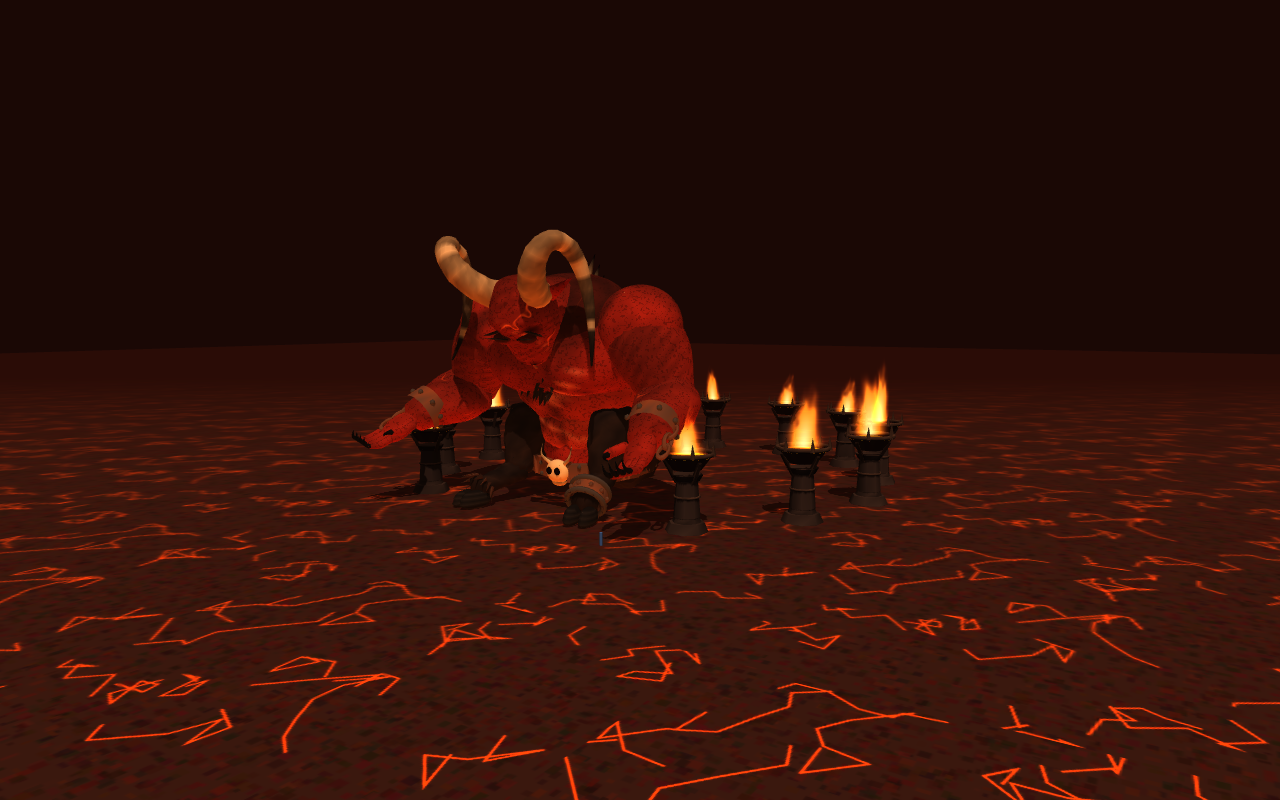
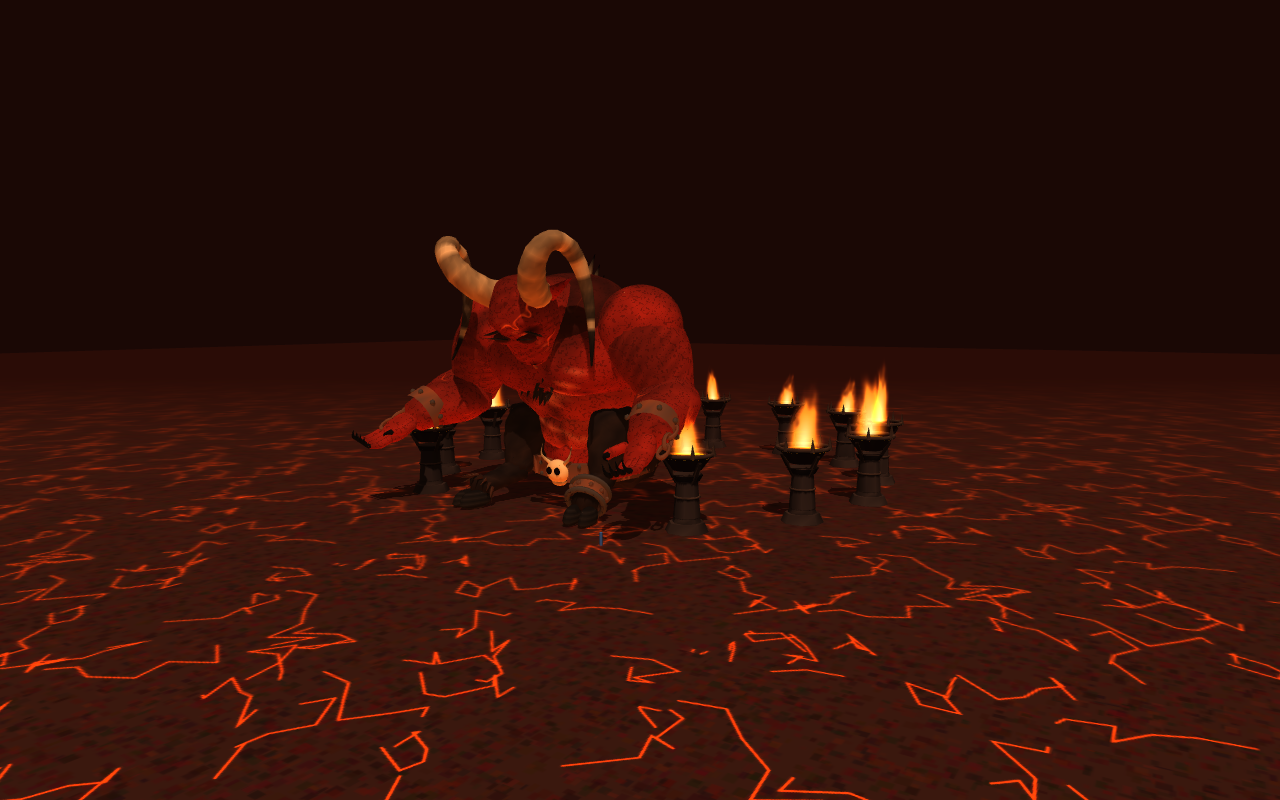
Ад: руки и модели не дрожат (кости относительно модели, не мира); постамент меча и чаши стоят на полу котловины — на постамент можно зайти
Claude-Session: https://claude.ai/code/session_01Mpy7conc3GY2y3zL4LDFSX

diff --git a/src/core/LocalSkin.js b/src/core/LocalSkin.js
@@ -1,0 +1,46 @@
+/**
+ * LocalSkin.js — кости скин-моделей считаются относительно самой модели, а не мира.
+ *
+ * Жалоба автора: «в аду дрожит рука» (на Земле — нет). Ад (и планеты) лежат далеко от начала мира (x ≈ 480 000 м).
+ * three r128 кладёт в шейдер матрицы костей В МИРЕ (bone.matrixWorld) и вычитает мир модели уже на видеокарте
+ * (bindMatrixInverse) — в 32-битных числах: у 480 000 шаг числа ≈ 3 см, и вершины рук/тела прыгали на эти сантиметры
+ * от кадра к кадру. Здесь вычитание делается на процессоре в 64-битных числах: в шейдер идут маленькие числа
+ * «кость относительно модели», а модель ставит на место её обычная modelMatrix (её three считает точно).
+ * Условие: все скин-сетки этого скелета — дети `frame` без своего сдвига (как у FarShape, тела героя, горгулий).
+ */
+import * as THREE from 'three';
+
+const _inv = new THREE.Matrix4(), _off = new THREE.Matrix4(), _id = new THREE.Matrix4();
+
+/** Скелет кладёт в шейдер кости относительно `frame` (его мировой матрицы). */
+export function localSkin(skeleton, frame) {
+    if (!skeleton || !frame) return skeleton;
+    skeleton.update = function localUpdate() {
+        const bones = this.bones, inv = this.boneInverses, out = this.boneMatrices;
+        _inv.copy(frame.matrixWorld).invert();
+        for (let i = 0; i < bones.length; i++) {
+            _off.multiplyMatrices(_inv, bones[i] ? bones[i].matrixWorld : _id).multiply(inv[i]);
+            _off.toArray(out, i * 16);
+        }
+        if (this.boneTexture) this.boneTexture.needsUpdate = true;
+    };
+    return skeleton;
+}
+
+const _fi = new THREE.Matrix4();
+/**
+ * Сетка такого скелета: без «привязки к миру» (bindMatrix — единица, не пересчитывается от мира модели). `frame` — тот же, что у
+ * скелета: расчёт вершины на процессоре (`boneTransform`: попадания, замеры, тесты) отдаёт её, как раньше, в координатах сетки.
+ */
+export function localBind(mesh, frame = null) {
+    mesh.bindMode = 'detached';
+    mesh.bindMatrix.identity();
+    mesh.bindMatrixInverse.identity();
+    if (frame) {
+        mesh.boneTransform = function localBoneTransform(index, target) {
+            THREE.SkinnedMesh.prototype.boneTransform.call(this, index, target); // (кости в мире, привязка — единица: точка в мире)
+            return target.applyMatrix4(_fi.copy(frame.matrixWorld).invert());
+        };
+    }
+    return mesh;
+}

diff --git a/tests/unit/diabolos.test.js b/tests/unit/diabolos.test.js
@@ -763,3 +763,36 @@ test('смерть от меча — эффектно: крик удивлени
     assert.equal(d.glowK, 0, 'зарево и столб огня погасли');
     assert.ok(!d.deathFx.on, 'эффект убран (ничего не копится)');
 });
+
+test('постамент меча стоит НА полу котловины (настоящая земля ада): от пола по ступеням поднимаешься шагом, без прыжка', async () => {
+    const { TerrainData } = await import('../../src/world/Terrain.js');
+    const { CollisionWorld } = await import('../../src/world/Collision.js');
+    const { swordSpot, SWORD_SPOT } = await import('../../src/game/DiabolosRules.js');
+    const { Diabolos } = await import('../../src/game/Diabolos.js');
+    const data = new TerrainData(); data.generate({ seed: 4242, hell: true, worldGen: 22 });
+    const col = new CollisionWorld(); col.setTerrain(data);
+    const plan = data.hellPlan;
+    const { g } = fakeGame(new THREE.Vector3(plan.devilSeat.x, 16, plan.devilSeat.z - 300));
+    g.collision = col; g.terrain = { data };
+    g.weapons = { weapons: [], spawnLying: (t, x, y, z, yaw, id) => { const w = { id, type: t, position: new THREE.Vector3(x, y, z) }; g.weapons.weapons.push(w); return w; } };
+    const d = new Diabolos(g); g.diabolos = d;
+    d.place(plan);
+    d.update(0.016);
+    const P = swordSpot(d.site, d._swordRoad());
+    const cx = d.site.cx ?? d.site.x, cz = d.site.cz ?? d.site.z, L = Math.hypot(cx - P.x, cz - P.z), ux = (cx - P.x) / L, uz = (cz - P.z) / L; // (к середине котловины — там ровный пол)
+    const floor = col.groundAt(P.x + ux * 14, P.z + uz * 14, 30); // (пол рядом, вне постамента)
+    const ped = [...col.boxes.values()].filter((b) => b.kind === 'pedestal').sort((a, b) => a.minY - b.minY);
+    assert.equal(ped.length, SWORD_SPOT.TIERS.length);
+    assert.ok(Math.abs(ped[0].minY - floor) < 0.05, `низ постамента ${ped[0].minY} = пол ${floor} (раньше висел на 1,5 м выше — не запрыгнуть)`);
+    // идём от края к середине: каждая ступень — не выше шага героя (1,05 м)
+    let feet = floor;
+    for (let k = 0; k <= 60; k++) {
+        const x = P.x + ux * (14 - k * 0.2333), z = P.z + uz * (14 - k * 0.2333);
+        const gnd = col.standAt(x, z, feet + 1.1);
+        assert.ok(gnd - feet <= 1.05, `ступень ${(gnd - feet).toFixed(2)} м выше шага`);
+        feet = Math.max(gnd, feet - 0.5);
+    }
+    assert.ok(Math.abs(feet - (floor + P.h)) < 0.05, `наверху: ${feet} vs ${floor + P.h}`);
+    const w = g.weapons.weapons.find((x) => x.id === 'divine-hell');
+    assert.ok(w && Math.abs(w.position.y - (floor + P.h + 0.3)) < 0.05, 'меч лежит на верхней ступени');
+});

diff --git a/src/game/Diabolos.js b/src/game/Diabolos.js
@@ -139,7 +139,7 @@ export class Diabolos {
         // (пол котловины ещё не сделан воркерами — издали: слой пола из плана ада, верх блока = слой + 1; придёт земля — уточнится)
         const gy = this._ground(s.x, s.z, NaN);
         this._yGuess = !Number.isFinite(gy);
-        const y = Number.isFinite(gy) ? gy : s.y != null ? s.y + 1 : 0;
+        const y = Number.isFinite(gy) ? gy : s.y != null ? s.y - 0.5 : 0;
         const anchor = { x: s.anchor.x, y: s.anchor.y ?? this._ground(s.anchor.x, s.anchor.z, y) + 2.5, z: s.anchor.z };
         // лицом от якоря (цепь тянется за ним назад)
         const yaw = Math.atan2(-(s.x - anchor.x), -(s.z - anchor.z)); // (вперёд = (−sin, −cos): ОТ столба, к дороге; было «+π» — сидел лицом к столбу, и под Империусом шёл прямо в него)
@@ -201,7 +201,7 @@ export class Diabolos {
     _fires(y) {
         const s = this.site, sp = this.game.terrain?.data?.hellPlan?.spawn;
         const road = sp ? Math.atan2(sp.z - s.cz, sp.x - s.cx) : Math.atan2(s.z - s.anchor.z, s.x - s.anchor.x);
-        (this.fires || (this.fires = new DevilFires(this.game))).build(s.cx ?? s.x, s.cz ?? s.z, s.y != null ? s.y + 1 : y, road);
+        (this.fires || (this.fires = new DevilFires(this.game))).build(s.cx ?? s.x, s.cz ?? s.z, s.y != null ? s.y - 0.5 : y, road);
         devilFireLight(1);
     }
 
@@ -1620,7 +1620,7 @@ export class Diabolos {
         // (пол котловины ещё не сделан воркерами — издали: слой пола из плана ада, верх блока = слой + 1; придёт земля — уточнится)
         const gy = this._ground(s.x, s.z, NaN);
         this._yGuess = !Number.isFinite(gy);
-        const y = Number.isFinite(gy) ? gy : s.y != null ? s.y + 1 : 0;
+        const y = Number.isFinite(gy) ? gy : s.y != null ? s.y - 0.5 : 0;
         const anchor = { x: s.anchor.x, y: s.anchor.y ?? y + 2.5, z: s.anchor.z };
         this.anchor = anchorModel(); this.anchor.position.set(anchor.x, anchor.y - 3, anchor.z); g.scene?.add(this.anchor);
         // цепь: лежит от кольца в сторону места, где он сидел
@@ -1687,7 +1687,7 @@ export class Diabolos {
     _creativeSword() {
         const g = this.game, s = this.site;
         const P = swordSpot(s, this._swordRoad());
-        const floor = s.y != null ? s.y + 1 : this._ground(P.x, P.z, 0);
+        const floor = s.y != null ? s.y - 0.5 : this._ground(P.x, P.z, 0);
         this._pedestal(P, floor);
         if (this._swordGiven || !this.auth) return;
         const creative = g.config?.mode === 'creative' || g.config?.mode === 'test';

diff --git a/tests/unit/local-skin.test.js b/tests/unit/local-skin.test.js
@@ -1,0 +1,30 @@
+import test from 'node:test';
+import assert from 'node:assert/strict';
+import * as THREE from 'three';
+import { FarShape } from '../../src/core/FarShape.js';
+
+// Жалоба автора: «в аду дрожит рука». Ад — x ≈ 480 000 м: у 32-битных чисел видеокарты там шаг ≈ 3 см, а кости шли в шейдер
+// в мировых координатах и вычитались уже на карте — вершины прыгали. Теперь в шейдер идёт «кость относительно модели» (LocalSkin).
+test('кости одной формы (FarShape) — относительно модели: в аду (x 480 000) числа в шейдере маленькие, вершина там же, где у частей', () => {
+    const root = new THREE.Group();
+    const a = new THREE.Mesh(new THREE.BoxGeometry(0.2, 0.2, 0.2), new THREE.MeshLambertMaterial({ color: 0xff0000 }));
+    const b = new THREE.Mesh(new THREE.BoxGeometry(0.1, 0.4, 0.1), new THREE.MeshLambertMaterial({ color: 0xff0000 }));
+    a.position.set(0.3, 1.2, 0.1); b.position.set(-0.2, 0.7, 0.05); b.rotation.z = 0.4;
+    root.add(a, b);
+    root.position.set(480013.37, 21.5, -2017.25); root.rotation.y = 0.7;
+    root.userData.farRadius = 2;
+    const fs = new FarShape(root); fs.set(true);
+    root.updateMatrixWorld(true);
+    const mesh = fs.meshes[0];
+    assert.ok(mesh, 'форма собрана');
+    mesh.skeleton.update();
+    const M = mesh.skeleton.boneMatrices;
+    for (let i = 0; i < M.length; i += 16) assert.ok(Math.abs(M[i + 12]) < 5 && Math.abs(M[i + 14]) < 5, `кость ${i / 16}: сдвиг ${M[i + 12].toFixed(1)}, ${M[i + 14].toFixed(1)} — относительно модели`);
+    // вершина как в шейдере (32-битные числа): modelMatrix · (кость · позиция) — там же, где у самой части в мире
+    const f = (x) => Math.fround(x);
+    const bone = new THREE.Matrix4().fromArray(Array.from(M.slice(0, 16), f));
+    const p = new THREE.Vector3(0.1, 0.1, 0.1).applyMatrix4(bone).applyMatrix4(mesh.matrixWorld);
+    const want = new THREE.Vector3(0.1, 0.1, 0.1).applyMatrix4(mesh.skeleton.bones[0].matrixWorld);
+    assert.ok(p.distanceTo(want) < 1e-3, `вершина ушла на ${p.distanceTo(want)} м`);
+    assert.equal(mesh.bindMode, 'detached');
+});

diff --git a/src/core/FarBatch.js b/src/core/FarBatch.js
@@ -133,6 +133,11 @@ class Batch {
         sk.update = function () { batch.pose(this); }; // (the parts' own world matrices: copied, not computed)
         const mesh = new THREE.SkinnedMesh(geo, this.mat);
         mesh.bind(sk, _ident);
+        // (пакет стоит в своей точке, кости — относительно неё: вдали от начала мира (ад, x ≈ 480 000) 32-битные числа шейдера не дрожат — LocalSkin)
+        this.ox = this.placed ? this.cx : 0; this.oz = this.placed ? this.cz : 0;
+        mesh.bindMode = 'detached';
+        mesh.position.set(this.ox, 0, this.oz);
+        mesh.updateMatrix();
         mesh.matrixAutoUpdate = false;
         mesh.castShadow = this.cs;
         mesh.receiveShadow = this.rs;
@@ -155,7 +160,7 @@ class Batch {
         for (const s of this.slots) {
             const o = s.base * 16, B = s.bones;
             if (s.dead || !s.shape.on || !s.shown) { out.fill(0, o, o + B.length * 16); continue; }
-            for (let i = 0; i < B.length; i++) out.set(B[i].matrixWorld.elements, o + i * 16);
+            for (let i = 0; i < B.length; i++) { const k = o + i * 16; out.set(B[i].matrixWorld.elements, k); out[k + 12] -= this.ox || 0; out[k + 14] -= this.oz || 0; }
         }
         if (sk.boneTexture) sk.boneTexture.needsUpdate = true;
     }
@@ -175,9 +180,9 @@ class Batch {
         m.visible = any;
         if (!any) return;
         const S = m.geometry.boundingSphere;
-        S.center.set((x0 + x1) / 2, (y0 + y1) / 2, (z0 + z1) / 2);
+        S.center.set((x0 + x1) / 2 - (this.ox || 0), (y0 + y1) / 2, (z0 + z1) / 2 - (this.oz || 0)); // (сфера — в своих координатах пакета)
         S.radius = Math.hypot(x1 - x0, y1 - y0, z1 - z0) / 2 + r + FAR_BATCH.MARGIN;
-        this.cx = S.center.x; this.cz = S.center.z; this.placed = true;
+        this.cx = S.center.x + (this.ox || 0); this.cz = S.center.z + (this.oz || 0); this.placed = true;
     }
 
     dispose() {

diff --git a/src/entities/RealisticBody.js b/src/entities/RealisticBody.js
@@ -23,6 +23,7 @@
  */
 import { LEG_SAFE, safeRaise } from '../input/LegSafe.js';
 import * as THREE from 'three';
+import { localSkin, localBind } from '../core/LocalSkin.js';
 import { readyBootCache, cacheKey } from '../core/BootCache.js';
 import { BONE_COUNT, BONE_NAMES, B, ANAT, FLOOR, FINGER_NAMES, HEADX, restPose, armRest, legRest } from './real/RealRig.js';
 import { realSkinMaterial, realProxyMaterial, realHairMaterial } from './real/RealSkinMaterial.js';
@@ -290,12 +291,12 @@ export class RealisticBody {
     }
 
     _build(lib) {
-        const sk = new THREE.Skeleton(this.bones, lib.inverses.map((m) => m.clone()));
+        const sk = localSkin(new THREE.Skeleton(this.bones, lib.inverses.map((m) => m.clone())), this.ch.group); // (кости относительно героя — в аду не дрожит: LocalSkin)
         this.skeleton = sk;
         const mk = (geo, mat, name) => {
             const m = new THREE.SkinnedMesh(geo, mat);
             m.name = name;
-            m.bind(sk, new THREE.Matrix4());
+            m.bind(sk, new THREE.Matrix4()); localBind(m, this.ch.group);
             m.raycast = () => {}; // (the game's own parts are what is hit)
             m.userData.farOne = true; // (a body's copy leaves it out — Death._copy — and takes the standard parts)
             m.userData.realSkin = true;
@@ -342,7 +343,7 @@ export class RealisticBody {
             if (!L[k]) continue;
             const m = new THREE.SkinnedMesh(L[k], k === 'hair' ? this.hairMat : this.material);
             m.name = 'real-' + k;
-            m.bind(this.skeleton, new THREE.Matrix4());
+            m.bind(this.skeleton, new THREE.Matrix4()); localBind(m, this.ch.group);
             m.raycast = () => {};
             m.userData.farOne = true;
             m.userData.realSkin = true;

diff --git a/src/core/FarShape.js b/src/core/FarShape.js
@@ -15,6 +15,7 @@
  * multi-material ones, own shaders, cut-out shadows (leaves with a custom depth material).
  */
 import * as THREE from 'three';
+import { localSkin, localBind } from './LocalSkin.js';
 import { farBatchAdd, farBatchRemove, farBatchBuilt } from './FarBatch.js';
 
 export const FAR_SHAPE = { CACHE_MAX: 96 };
@@ -201,7 +202,7 @@ export class FarShape {
         farBatchBuilt(this); // (out of its batch: its own meshes, new, drawn until it is still again)
         this._drop();
         if (!list.length) return;
-        this.skeleton = new THREE.Skeleton(list.slice(), list.map(() => new THREE.Matrix4()));
+        this.skeleton = localSkin(new THREE.Skeleton(list.slice(), list.map(() => new THREE.Matrix4())), this.root); // (кости — относительно модели: вдали от начала мира (ад) не дрожат — LocalSkin)
         // (a bucket: one material (or the plain-coloured family), one set of camera layers, one shadow — as its parts had them)
         const by = new Map();
         for (const p of list) {
@@ -224,6 +225,7 @@ export class FarShape {
             // (a material that changes as the game goes — a sparkle's pulse, a glow: its twin follows it before each draw)
             if (!bake) mesh.onBeforeRender = syncTwin;
             mesh.bind(this.skeleton, _ident);
+            localBind(mesh, this.root);
             mesh.castShadow = b.cs && shadowsOn;
             mesh.userData._cs = b.cs; // (Shadows.setNearShadow switches it near/far as its parts)
             mesh.receiveShadow = anyRecv;

diff --git a/src/game/GargoyleModel.js b/src/game/GargoyleModel.js
@@ -19,6 +19,7 @@
  */
 
 import * as THREE from 'three';
+import { localSkin, localBind } from '../core/LocalSkin.js';
 
 export const HIP = 1.25; // m: from the hip down to the soles (the bind pose)
 export const MODEL_SCALE = 0.9; // × the table's numbers
@@ -473,12 +474,12 @@ export function gargoyleModel(variant = 0) {
     const g = new THREE.Group();
     g.name = 'gargoyle';
     const bones = makeBones();
-    const skel = new THREE.Skeleton(bones, S.inverses.map((m) => m.clone()));
+    const skel = localSkin(new THREE.Skeleton(bones, S.inverses.map((m) => m.clone())), g); // (горгульи ада — вдали от начала мира: кости относительно модели)
     g.add(bones[0]);
     const body = new THREE.SkinnedMesh(S.hi.stone, S.mats[variant % 3]);
     const glow = new THREE.SkinnedMesh(S.hi.glow, S.glow);
     const mem = new THREE.SkinnedMesh(S.mem, S.membrane);
-    for (const m of [body, glow, mem]) { g.add(m); m.bind(skel, new THREE.Matrix4()); m.frustumCulled = false; }
+    for (const m of [body, glow, mem]) { g.add(m); m.bind(skel, new THREE.Matrix4()); localBind(m, g); m.frustumCulled = false; }
     body.castShadow = true;
     const byName = {};
     bones.forEach((b) => { byName[b.name] = b; });

diff --git a/CLAUDE.md b/CLAUDE.md
@@ -269,7 +269,7 @@
 Автор: «ОГРОМНЫЙ ДЬЯВОЛ… как страшный монстр, но В 5 РАЗ БОЛЬШЕ… ОГРОМНЫЕ РОГА, КОПЫТА… (позже автор: «немного более худой — накачанный, но массивный»)… одно копыто ПРИКОВАНО цепью… обычно СИДИТ И СПИТ… потревожили — ходит, но цепь держит, он ЗЛИТСЯ… БЕССМЕРТЕН, даже «Дай» не берёт (он его создал)… огонь в 5 раз больше и длиннее драконьего… ШАРЫ ОГНЯ ЛОМАЮТ Protection и Protection Maxima: тебе ничего, но защита сломана — каждый раз заново»; «до 20 анимаций с мимикой… интересный ПЕРСОНАЖ… высовывает язык и троллит».
 - Файлы: `DiabolosRules.js` (числа `DEVIL`, `WAKE`, `MOVES`/`MOVE_IDS`, `FIRE`, `BALL`, цепь `ChainRope` + `leash`, `wakes`, `chooseMove`, бессмертие `DEVIL_VS`/`devilVerdict`, щит `ballVerdict`, место `seatFrom`), `Diabolos.js` (`g.diabolos`: сон/пробуждение/ходьба `crowdStep`, ходы, струя, шары, по мне — `_meSlam/_meBall/_hurtFire`, хват, сеть `dvl`/`dvb`, сохранение `woke`), `DiabolosActs.js` (характер: 26 поступков `ACTS`/`ACT_IDS` — только дописывать, ситуации `SITUATIONS`, `pickAct`, мимика `moodFace/moveFace`), `entities/DiabolosModel.js` (модель на `FarShape`: кожа-шейдер с трещинами жара, «твёрдое», свечение — 3 отрисовки; цепь `InstancedMesh` + ореол цепи + якорь = 6; лицо: брови, веки каждого глаза, зрачки, уши, верхняя губа-оскал, ноздри, раздвоенный язык из 3 суставов), `audio/DiabolosSounds.js` (заранее, `SoundManager.playDevil`, тема — `devilTheme`).
 - Мерки: монстр пентаграммы ×5 — 122,5 м до макушки (рога до ~134 м), накачанный и массивный (пресс кубиками, талия уже плеч), тело 21 м (корпус 23 м), группа ×35 от формы ростом 3,5. Струя: дракон силы 1 × 5 = 115 м, у конца 23 м. Шар Ø 6 м, 28–38 м/с, взрыв 14 м. Цепь 44 звена по 3,6 м (шаг 1,82), ход 70 м от столба.
-- Место — `HellMap.hellPlan`: `devilSeat` (котловина r 90), столб цепи в середине (`chainAnchor`) — сидит в 40 м от столба лицом к дороге прибытия (`seatFrom`, `SEAT_OFF`); пока кто-то в аду ближе 4 км (`SEEN_R`) — загружен (жалоба автора «не нашёл Дьявола»: плато прибытия было в 1250 м, он грузился с 900; теперь прибытие в 600–1000 м), иначе выгружен; пол до воркеров — слой плана + 1. Виден издали: дальше 640 м от камеры рисуется ближе и меньше под тем же углом (`Diabolos._farProxy`, дальняя плоскость камеры 1000 м), туман на нём тоньше и не глухой (`devilFar`, `uSeeFar` 1900 м). Снимок в игре: `node tools/devil-arrival-screenshot.mjs` (ZNS_CHROME=/opt/pw-browsers/chromium-1243/chrome-linux64/chrome).
+- Место — `HellMap.hellPlan`: `devilSeat` (котловина r 90), столб цепи в середине (`chainAnchor`) — сидит в 40 м от столба лицом к дороге прибытия (`seatFrom`, `SEAT_OFF`); пока кто-то в аду ближе 4 км (`SEEN_R`) — загружен (жалоба автора «не нашёл Дьявола»: плато прибытия было в 1250 м, он грузился с 900; теперь прибытие в 600–1000 м), иначе выгружен; пол до воркеров — слой плана − 0,5 (верх блока слоя `SEAT_Y`: `surfaceY` = 13,5; было «+ 1» — постамент меча и чаши висели на 1,5 м над полом, на постамент нельзя было зайти/запрыгнуть; тест «постамент стоит НА полу» на настоящей земле ада). Виден издали: дальше 640 м от камеры рисуется ближе и меньше под тем же углом (`Diabolos._farProxy`, дальняя плоскость камеры 1000 м), туман на нём тоньше и не глухой (`devilFar`, `uSeeFar` 1900 м). Снимок в игре: `node tools/devil-arrival-screenshot.mjs` (ZNS_CHROME=/opt/pw-browsers/chromium-1243/chrome-linux64/chrome).
 - Убить можно ТОЛЬКО божественным мечом (тайна игры; меч — `DivineSword.js`, другая сессия): `g.diabolos.bladeHit(a, b)` → точка касания лезвия/пути меча, `pierce(point, by, {via: 'hand'|'swarm'})` — хост; гость шлёт `pierce`. Смерть 20 с (`DEATH`, `deathPhase`: shock → agony → fall → ash): рана светится и расползается трещинами света (шейдер `devilWound`: `uWound/uWoundK/uDissolve`, без новых источников света), держится за рану, ревёт, бьёт землю, цепь лопается (`ChainRope.free`), на колени, осыпается золой, вспышка, пепел столбом вверх; потом тишина, `diabolosDead` в сохранении (`snapshot.dead`), котловина пуста, цепь лежит, из пепла — 4 сундука босса (`room 'diabolos'` → `Items.lootChest`: сильнейшие пентаграммы, высшие вещи, ключ), ачивка `devilSlayer` (+500, входит в «Высший маг»). Держал игрока — роняет. **Божественный меч лежит у котловины в ЛЮБОМ режиме** (решение автора: «место такое, что туда хрен попадёшь, пусть валяется» — это единственное место, где меч «можно найти»; рецепт Unitas по-прежнему нигде не подсказывается): ступенчатый постамент (ступени 13,5/10,5/7,5 м по 1 м — ×1,5 к прежнему, коллизия у каждой, без поворота — вид совпадает с коробками) между двумя огненными чашами, целиком на ровном полу (`swordSpot`: R 0,89 r, 63 м от его места), id `divine-hell` (`SWORD_ID`); вне Творческого — один раз на мир (`swordPlaced` → `snapshot.sw`: подняли, унесли, пропал — второй не появляется), в Творческом — раз за игру; «Левиоса Максима» + «Атак» оттуда долетает (`Levitation.attack`: ищет его до 140 м по `diabolos.aimPoint()`). Смерть от меча — никаких «нельзя убить»: `Game.damageZombie` для божественного меча зовёт `pierce`, а `_struck` молчит, пока он умирает (и 3 с после `pierce` у гостя). **Левиоса держит меч** (жалоба «поднялся — потом заклятие рассеялось»): у божественного меча `s.firm` — рывок руки его не роняет (`Levitation._jerked` для него не действует), а финал фразы «Левиоса Максима» после первых слов «Левиоса» больше не отпускает поднятый меч (`LevitationMaxima.cast`); тест `divine-sword-levitate.test.js`.
 - **Тело — не призрак** (жалоба автора «пролетаю сквозь Дьяволоса»; `src/game/DiabolosBody.js`): `DEVIL_BODY` — ~40 капсул по костям позы (таз, брюхо, грудь, трапеции, шея, голова, морда, рога спиралью, плечи, руки, кулаки, бёдра, голени, копыта, хвост), каждый кадр из матриц костей ДО дальнего «прокси» (`Diabolos._bodyStep`, только если кто-то ближе 420 м; рассыпался в пепел — тела нет). Тело — `Collision.addMover` (как корабли): `resolveCylinder` (ходьба игрока, жителей, Таронов, зомби) упирается, `pointBlocked` (полёт игрока, вещи, лучи) и `sphereDepth` (оружие) — тоже, `groundAt` — можно встать на копыто/плечо. Полёт: `Game._updatePlayer` → `diabolos.pushOut(pos, r, feet, h, vel, prev)` — 3D вдоль нормали, путь кадра проверяется по шагам (≤ радиуса — рог/хвост не проскочить), скорость в тело гасится — скольжение по коже; дракон и всадник (`Dragons.update`), горгульи ада (`Gargoyles.update`) — тем же `pushOut`; цепь мягко отталкивает (`_chainPush`). Свои взгляд и шары тело не видят (`_los` ставит `body.paused`); я у него в кулаке — тело не выталкивает (`paused`). Таблица `BODY_TARGETS`. Тест «тело — не призрак» в `diabolos.test.js` (брюхо, грудь, голова, рог, рука, кулак, нога, копыто × 8 сторон × 30 м/с, стоя и сидя).
 - **Смерть — эффектнее** (`src/fx/DevilDeathFx.js`, числа `DEATH_FX`; события — `D.ev` в `_startDying/_dyingTick`, одинаково у всех по «die»): крик удивления (`shriek` + реплика `dying` басом: «А-а-а?! Что это… такое?!», «Нет… НЕТ… это… невозможно!», «Свет… он жжёт!»), через 2 с рёв боли; посреди — `agony` («Я… вечен…»); из трещин света по телу растут лучи во все стороны (32, InstancedMesh, к распаду длиннее и ярче); куски кожи и пепла со светящимися сколами разлетаются радиально, падают, подпрыгивают, тают (40, InstancedMesh); кольца света бегут по земле (цепь лопнула, на колени, распад ×2); в миг распада — купол-вспышка до 180 м, фонтан искр на сотни метров (пул `fx.glow`), белая вспышка экрана у всех ближе 400 м (0,15 с вверх до 0,85, 0,6 с назад). Финал — звук `finale` (10 с: звон и хор растут → на 14-й секунде гулкий удар, «стеклянный» треск → долгий белый выдох; слышно за ~900 м), тема стихает к 12,5 с, после — тишина и пепел; зарево котловины и столб огня гаснут (`glowK` → `HellRealm`). Без PointLight; образцы — `DevilDeathFx.samples()` в `sampleModels`. Снимки `node tools/devil-screenshots.mjs --only=death` (`devil-death-burst/flash/wide`).
@@ -306,6 +306,9 @@
 - Все замыслы «на потом» (мультиплеер, защита домов, предсказание заклинаний, подробное пошаговое обучение перед игрой…) — в `docs/ideas-future.md`; сессия, делающая что-то рядом, читает файл и не противоречит ему.
 - «Граф Сракула» — только название (шутка), в игре не отсылается.
 - **Мультиплеер: устройство мира и защита домов (замысел автора, на будущее):** игрок появляется в СЛУЧАЙНОМ месте мира и просто живёт; замки и поселения генерируются, королей много — побеждать нужно только одного; города волшебников и т. п. — как в мире; сражаться с другими волшебниками можно. Любая постройка игрока УЯЗВИМА — бессмертных домов нет (в отличие от «защиты территории» командой в Майнкрафте): дом защищается только ЧАРАМИ (есть защита дома `ProtectionHouse`/`StrengthenHouse`, невидимость и др.), защиту можно усиливать без предела: чем больше вложил — тем крепче; позже — заколдованные существа и самоохраняющиеся башни вокруг дома (как вышки в «зомби-ферме»). Ограничения: у одного игрока ОДНА защита дома (нельзя защитить место, где находятся другие игроки — это нечестно); защита со временем ПОТИХОНЬКУ спадает; сильную защиту всё равно можно сломать.
+
+## Дальние области мира и точность видеокарты (жалоба автора: «в аду дрожит рука»)
+- Ад, планеты, карта Королевы лежат в сотнях тысяч метров от начала мира (ад x ≈ 480 000): у 32-битных чисел видеокарты шаг там ≈ 3 см. three r128 клал в шейдер кости скин-моделей В МИРЕ и вычитал мир модели уже на карте — вершины рук, оружия, всех `FarShape` прыгали на сантиметры. Теперь кости — относительно модели (`src/core/LocalSkin.js`: `localSkin(skeleton, frame)` считает «кость относительно модели» на процессоре в 64-битных числах, `localBind(mesh, frame)` — привязка единицей, `boneTransform` на процессоре по-прежнему отдаёт координаты сетки); так у `FarShape`, «Детальной» модели героя (`RealisticBody`), горгулий; пакет `FarBatch` стоит в своей точке (`ox/oz`), кости — относительно неё. Новая скин-модель — сразу через `localSkin/localBind`, и никаких мировых координат в 32-битных буферах для того, что рисуется вблизи (тест `local-skin.test.js`).
 
 ## Всё сложное — на видеокарту (правило автора, навсегда)
 Автор: «всё суперсложное — всегда на видеокарту. Даже не думать: если только кажется, что может быть сложным, — сразу на
